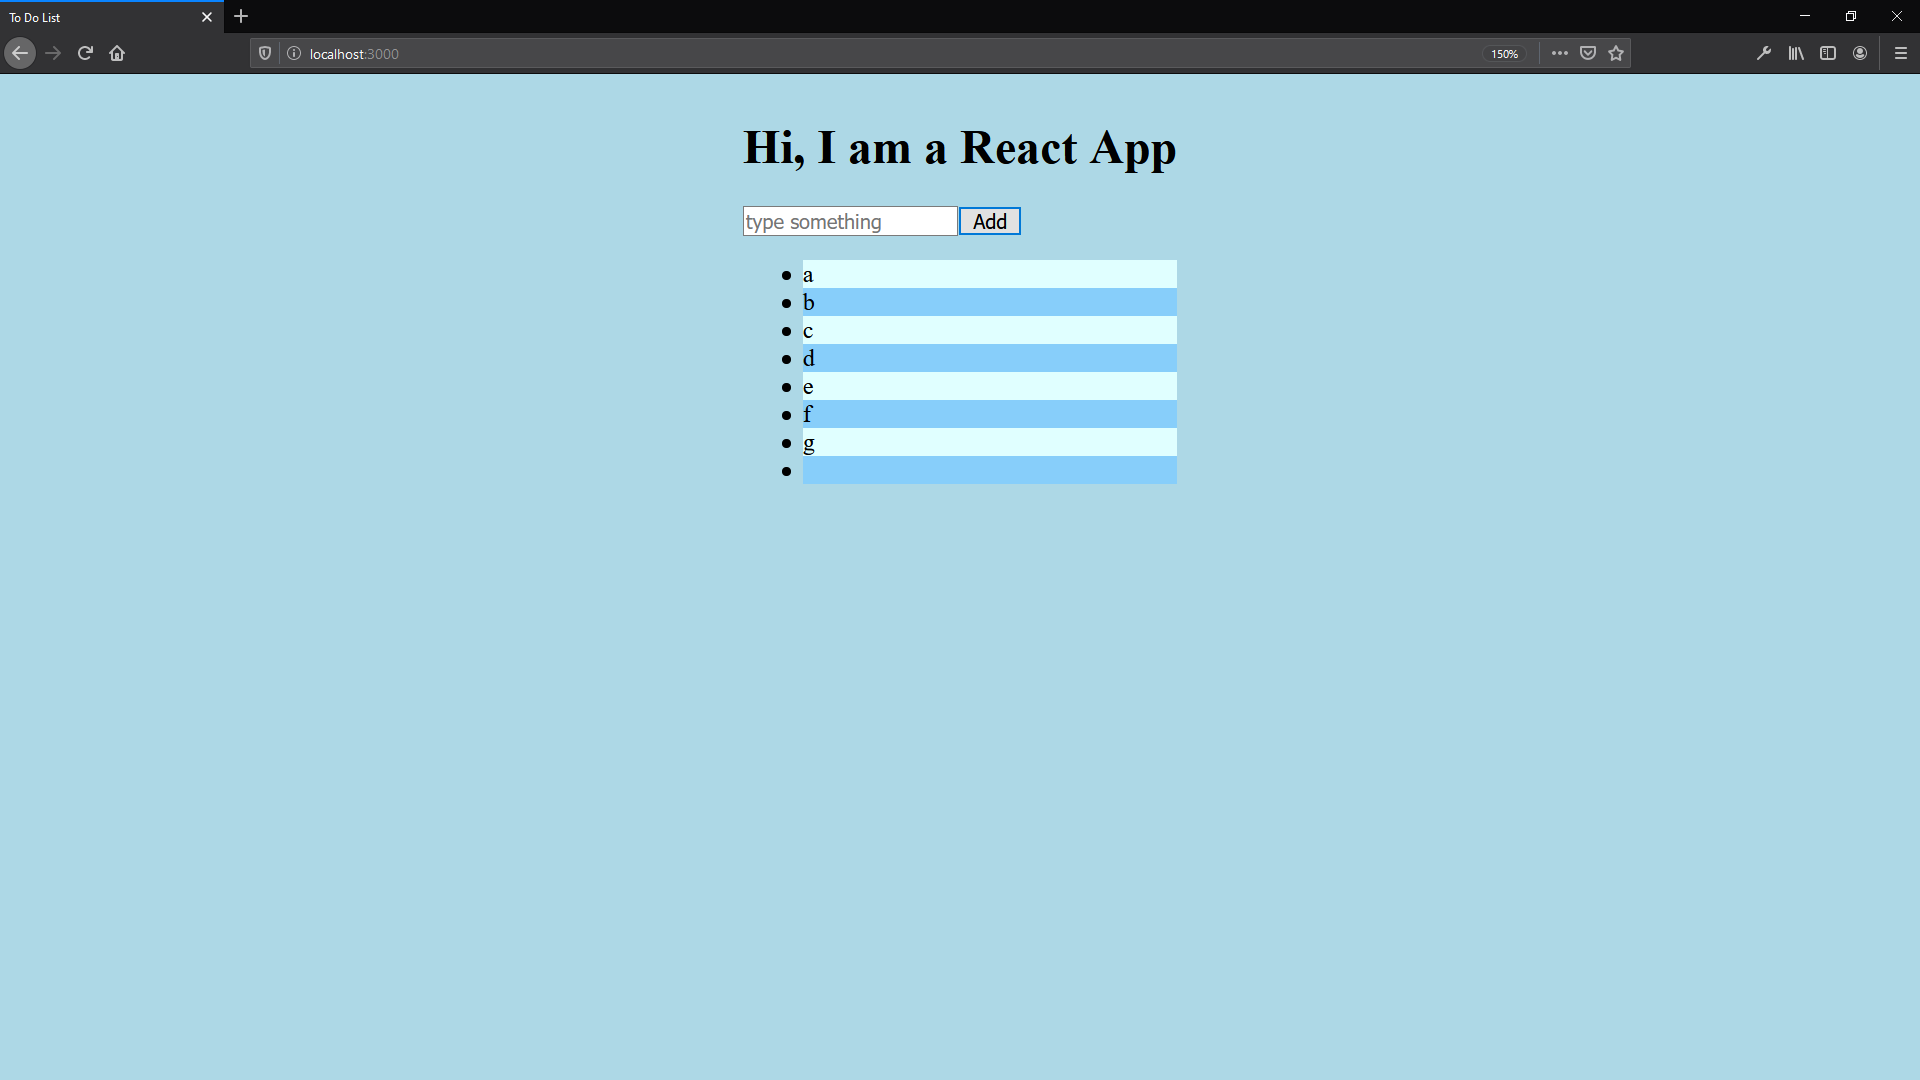
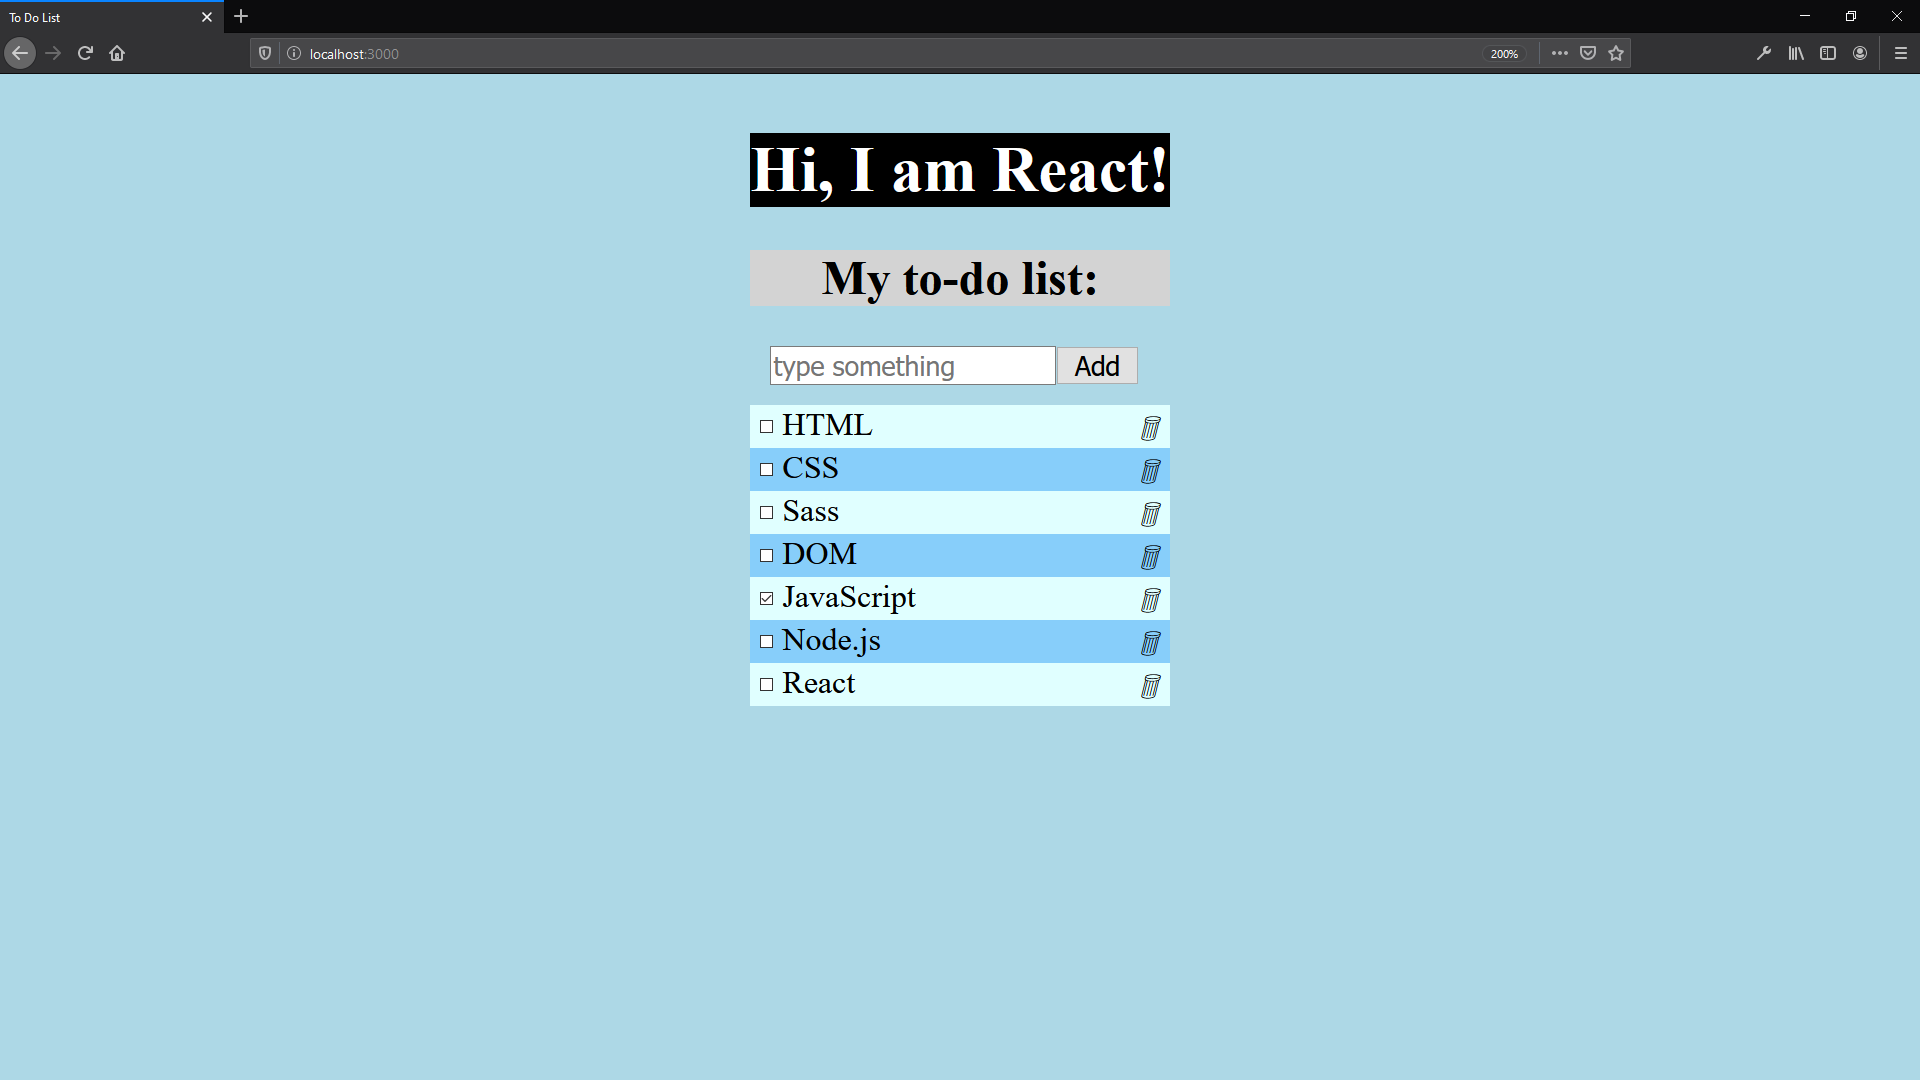
React

Changed region(s): [[0.375, 0.1222, 0.625, 0.6722]]

diff --git a/200615/src/components/List.js b/200615/src/components/List.js
@@ -19,19 +19,34 @@ export default class List extends React.Component {
             const userText = this.state.userInput;
             this.setState({
                 userInput: "",
-                list: [...this.state.list, userText],
+                list: [
+                    ...this.state.list,
+                    { id: this.state.list.length, title: userText, done: false },
+                ],
             });
         };
         this.remove = (itemToRemove) => {
-            const newArr = this.state.list.filter((item) => item !== itemToRemove);
+            const newArr = this.state.list.filter((item) => item.id !== itemToRemove);
             console.log(newArr);
+            this.setState({
+                list: newArr,
+            });
+        };
+        this.check = (itemToCheck) => {
+            const newArr = this.state.list.filter((item) => {
+                if (item.id === itemToCheck) {
+                    item.done = !item.done;
+                }
+                return item;
+            });
+
             this.setState({
                 list: newArr,
             });
         };
         return (
             <React.Fragment>
-                <form onSubmit={this.add}>
+                <form className="form" onSubmit={this.add}>
                     <input
                         type="text"
                         value={this.state.userInput}
@@ -40,7 +55,7 @@ export default class List extends React.Component {
                     />
                     <input type="submit" value="Add" />
                 </form>
-                <UserList list={this.state.list} del={this.remove} />
+                <UserList list={this.state.list} del={this.remove} check={this.check} />
             </React.Fragment>
         );
     }

diff --git a/200615/src/App.js b/200615/src/App.js
@@ -2,37 +2,39 @@ import React from "react";
 // import React, { Component } from "react";
 //export default class App extends Component {
 import List from "./components/List";
-import Data from "./data.json";
-
-const fileData = Data.map((obj) => {
-    const { id, name, address } = obj;
-    return (
-        <h4 key={id}>
-            Hi I am {name}, and I live in {address}
-        </h4>
-    );
-});
+// import Data from "./data.json";
+// how to use data.json
+// const fileData = Data.map((obj) => {
+//   const { id, name, address } = obj;
+//   return (
+//     <h4 key={id}>
+//       Hi I am {name}, and I live in {address}
+//     </h4>
+//   );
+// });
 const headerStyle = {
     backgroundColor: "black",
-    color: "red",
+    color: "white",
 };
 export default class App extends React.Component {
     render() {
         return (
             <React.Fragment>
                 <h1 className="header" style={headerStyle}>
-                    Hi I am React
+                    Hi, I am React!
         </h1>
                 <h2
                     style={{
-                        backgroundColor: "orange",
-                        color: "yellow",
+                        backgroundColor: "lightgray",
+                        color: "black",
+                        textAlign: "center",
                     }}
                 >
-                    {" "}
-          My ToDo{" "}
-                </h2>
-                {fileData}
+                    My to-do list:
+        </h2>
+                {
+                    //fileData
+                }
                 <List />
             </React.Fragment>
         );

diff --git a/200615/src/components/UserList.js b/200615/src/components/UserList.js
@@ -1,20 +1,32 @@
 import React from "react";
 
 const UserList = (props) => {
-    const toDos = props.list.map((item, i) => (
-        <li key={i}>
-            {item}{" "}
+    const toDos = props.list.map((item) => (
+        <li key={item.id}>
+            <input
+                className="list"
+                type="checkbox"
+                value={item.done}
+                onChange={() => {
+                    props.check(item.id);
+                }}
+            />
+            {item.title}
             <i
+                className="item"
                 onClick={() => {
                     console.log(item);
-                    props.del(item);
-                }}
-            >
+                    props.del(item.id);
+                }}>
                 🗑
-      </i>
+            </i>
+
         </li>
     ));
-    return <ul>{toDos}</ul>;
+    return <span>{toDos}</span>;
 };
 
 export default UserList;
+
+// <ul>{toDos}</ul>;
+// {<div className="item">item.title</div>}

diff --git a/200615/src/scss/main.scss b/200615/src/scss/main.scss
@@ -10,3 +10,19 @@ li:nth-child(odd) {
 li:nth-child(even) {
   background-color: lightskyblue;
 }
+.header {
+  text-align: center;
+}
+.form{
+  margin: 10px;
+}
+li {
+  list-style: none;
+  display: flex;
+}
+.item{
+  display: flex;
+  justify-content: flex-end;
+  width: 100%;
+  margin-right: 5px;
+}

diff --git a/README.md b/README.md
@@ -307,6 +307,9 @@ Folder **[200616](https://github.com/marcelosperalta/dci/tree/master/200616)** (
 Folder **[200617](https://github.com/marcelosperalta/dci/tree/master/200617)** (Class 17.06.2020)
 * React (Regular Expressions, exercise "Instagram mock-up" solution)
 
+Folder **[200618](https://github.com/marcelosperalta/dci/tree/master/200618)** (Class 18.06.2020)
+* React ((State, exercise "Morse translator")
+
 <div align="center">
     <a href="https://marcelosperalta.github.io/dci/">
         >>> Webpage with classes, homework, and teamwork about HTML, CSS, Sass, DOM, and JSON <<<

diff --git a/200618/README.md b/200618/README.md
@@ -1,0 +1,16 @@
+# React
+
+https://reactjs.org/
+
+## State
+
+https://reactjs.org/docs/state-and-lifecycle.html
+
+# Exercise "Morse translator"
+
+- Your App should translate any given text into morse code;
+- These symbols are not available: "§", "^", "~", "€", "{", "}", "[", "]", ">", and "<".
+
+## Screenshot
+
+![screenshot](./screenshot.png)
